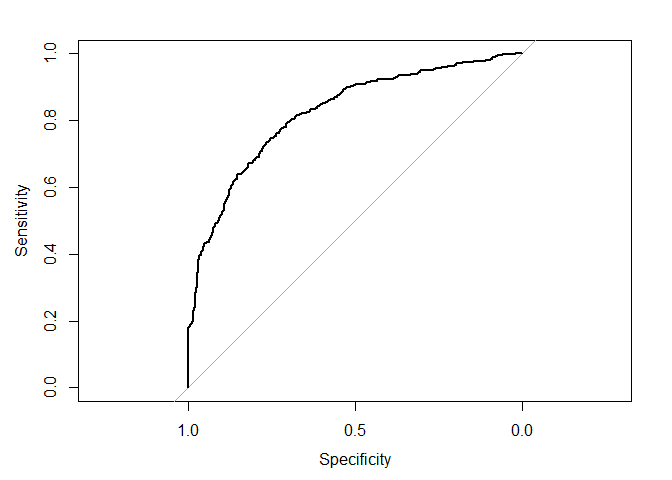
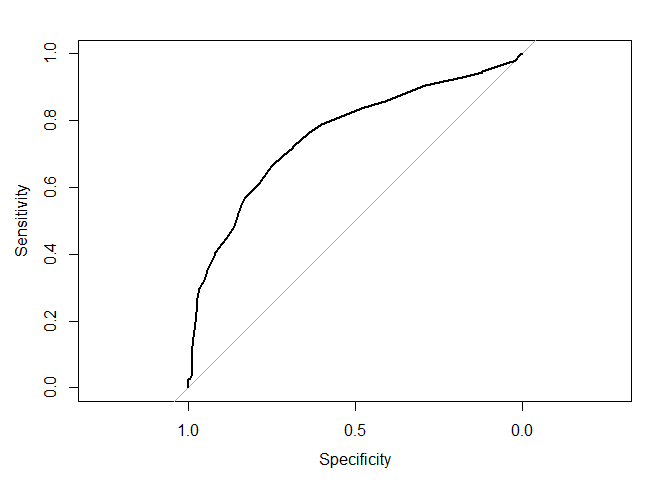
Actividad 9

diff --git a/Actividad9/README.md b/Actividad9/README.md
@@ -568,10 +568,106 @@ La curva ROC muestra un valor de 50%, lo cual indica una explicación que
 deja bastante desear, ya que nos interesaría que este valor estuviese
 cercano a algo como 70%
 
+## Regresión Logistica Simple: predecir Calidad por la cantidad de alcohol
+
+Para mejorar nuestro modelo utilizaremos otra variable, en este caso
+será la de cantidad de alcohol, para verificar si es que esta logra de
+alguna manera explicar la calidad del vino.
+
+``` r
+set.seed(369)
+summary(wine)
+```
+
+    ##  fixed.acidity   volatile.acidity  citric.acid    residual.sugar  
+    ##  Min.   : 4.60   Min.   :0.1200   Min.   :0.000   Min.   : 0.900  
+    ##  1st Qu.: 7.10   1st Qu.:0.3900   1st Qu.:0.090   1st Qu.: 1.900  
+    ##  Median : 7.90   Median :0.5200   Median :0.260   Median : 2.200  
+    ##  Mean   : 8.32   Mean   :0.5278   Mean   :0.271   Mean   : 2.539  
+    ##  3rd Qu.: 9.20   3rd Qu.:0.6400   3rd Qu.:0.420   3rd Qu.: 2.600  
+    ##  Max.   :15.90   Max.   :1.5800   Max.   :1.000   Max.   :15.500  
+    ##    chlorides       free.sulfur.dioxide total.sulfur.dioxide    density      
+    ##  Min.   :0.01200   Min.   : 1.00       Min.   :  6.00       Min.   :0.9901  
+    ##  1st Qu.:0.07000   1st Qu.: 7.00       1st Qu.: 22.00       1st Qu.:0.9956  
+    ##  Median :0.07900   Median :14.00       Median : 38.00       Median :0.9968  
+    ##  Mean   :0.08747   Mean   :15.87       Mean   : 46.47       Mean   :0.9967  
+    ##  3rd Qu.:0.09000   3rd Qu.:21.00       3rd Qu.: 62.00       3rd Qu.:0.9978  
+    ##  Max.   :0.61100   Max.   :72.00       Max.   :289.00       Max.   :1.0037  
+    ##        pH          sulphates         alcohol         quality     
+    ##  Min.   :2.740   Min.   :0.3300   Min.   : 8.40   Min.   :3.000  
+    ##  1st Qu.:3.210   1st Qu.:0.5500   1st Qu.: 9.50   1st Qu.:5.000  
+    ##  Median :3.310   Median :0.6200   Median :10.20   Median :6.000  
+    ##  Mean   :3.311   Mean   :0.6581   Mean   :10.42   Mean   :5.636  
+    ##  3rd Qu.:3.400   3rd Qu.:0.7300   3rd Qu.:11.10   3rd Qu.:6.000  
+    ##  Max.   :4.010   Max.   :2.0000   Max.   :14.90   Max.   :8.000  
+    ##    quality_01          prob       
+    ##  Min.   :0.0000   Min.   :0.5273  
+    ##  1st Qu.:0.0000   1st Qu.:0.5338  
+    ##  Median :1.0000   Median :0.5347  
+    ##  Mean   :0.5347   Mean   :0.5347  
+    ##  3rd Qu.:1.0000   3rd Qu.:0.5358  
+    ##  Max.   :1.0000   Max.   :0.5407
+
+``` r
+glm.fit <- glm(quality_01 ~ alcohol, data = wine , family = "binomial")
+summary(glm.fit)
+```
+
+    ## 
+    ## Call:
+    ## glm(formula = quality_01 ~ alcohol, family = "binomial", data = wine)
+    ## 
+    ## Deviance Residuals: 
+    ##     Min       1Q   Median       3Q      Max  
+    ## -3.1535  -0.9243   0.3901   0.9615   2.0179  
+    ## 
+    ## Coefficients:
+    ##              Estimate Std. Error z value Pr(>|z|)    
+    ## (Intercept) -10.76302    0.68326  -15.75   <2e-16 ***
+    ## alcohol       1.05559    0.06663   15.84   <2e-16 ***
+    ## ---
+    ## Signif. codes:  0 '***' 0.001 '**' 0.01 '*' 0.05 '.' 0.1 ' ' 1
+    ## 
+    ## (Dispersion parameter for binomial family taken to be 1)
+    ## 
+    ##     Null deviance: 2209  on 1598  degrees of freedom
+    ## Residual deviance: 1865  on 1597  degrees of freedom
+    ## AIC: 1869
+    ## 
+    ## Number of Fisher Scoring iterations: 4
+
+## Curva ROC
+
+``` r
+prob <- predict(glm.fit, type = c("response"))
+wine$prob <- prob
+curva_roc <- roc(quality_01 ~ prob, data = wine)
+```
+
+    ## Setting levels: control = 0, case = 1
+
+    ## Setting direction: controls < cases
+
+``` r
+plot(curva_roc)
+```
+
+![](Actividad-9_files/figure-gfm/unnamed-chunk-19-1.png)<!-- -->
+
+``` r
+auc(curva_roc)
+```
+
+    ## Area under the curve: 0.7566
+
+Podemos apreciar que nuestra predicción mejora mucho en comparación a la
+anterior, cuando utilizamos la variable del pH. Ya que el modelo se
+explica en un 76%, según la variable alcohol.
+
 ## Regresión Logistica Multiple para predecir Calidad desde todas las variables restantes
 
-Para mejorar, o intentarlo, utilizaremos el resto de variables presentes
-en la base de datos.
+Para mejorar la predicción del modelo, o intentarlo, utilizaremos el
+resto de variables presentes en la base de datos.
 
 ``` r
 wine$prob <- NULL
@@ -628,7 +724,7 @@ curva_roc_multi <- roc(quality_01 ~ prob_multi, data = wine)
 plot(curva_roc_multi)
 ```
 
-![](Actividad-9_files/figure-gfm/unnamed-chunk-19-1.png)<!-- -->
+![](Actividad-9_files/figure-gfm/unnamed-chunk-21-1.png)<!-- -->
 
 ``` r
 auc(curva_roc_multi)
@@ -697,3 +793,14 @@ auc(roc(quality_01 ~ prob_multi, data = test_data))
 
 La predicción mejora dado que el modelo se explica en un 85%, lo cual es
 mejor que lo anterior.
+
+# Conclusión
+
+Finalmente, podemos determinar que a primera vista escoger una variable
+como el pH para determinar el precio de un vino, no parece ser una buena
+idea, ya que si bien quizás tenga alguna relación con su calidad esta no
+es suficiente como para concluir algo respecto de que tan bueno es.
+
+Por ende, es necesario usar otra variable, que en este caso podría ser
+el alcohol. El cual si refleja una fuerte relación con la calidad del
+vino.
